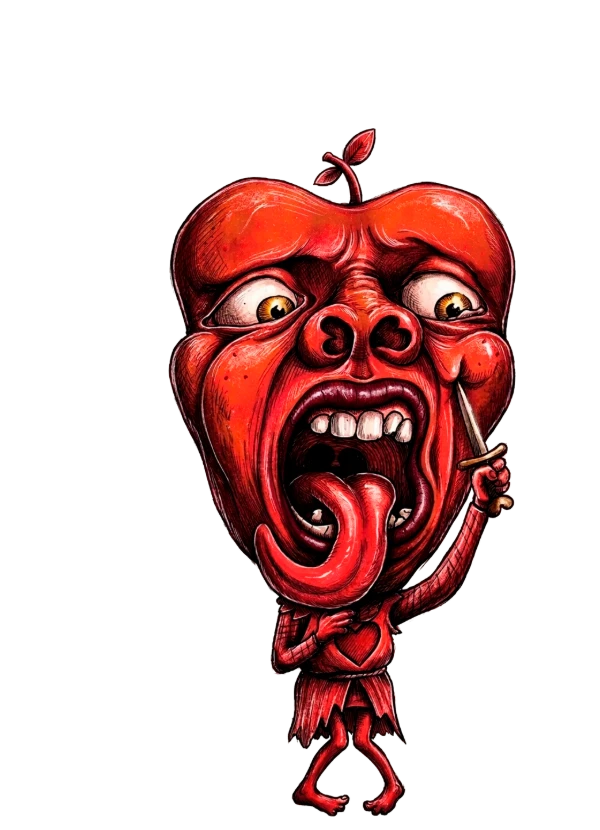
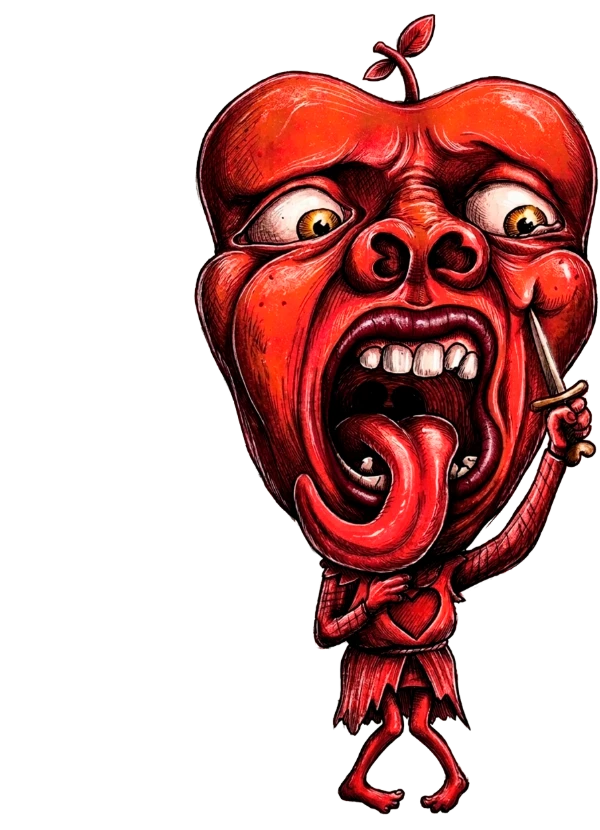
Figuras com indice so em cima; Valetes de Copas e Paus mais a direita; Rei de Espadas v3

diff --git a/js/cartas.js b/js/cartas.js
@@ -1,6 +1,6 @@
 /* Desenho das cartas: fundo creme liso (ou um fundo desenhado, se houver em FUNDOS), naipes desenhados (arte/naipes)
    nas posições clássicas do baralho. As figuras com arte própria (arte/cartas/senhores/<rank>-<naipe>.webp) usam o desenho
-   no lugar do placeholder, com a letra e o naipe nos cantos como as outras cartas (o de cima, à esquerda, um pouco maior).
+   no lugar do placeholder, com a letra e o naipe só no canto de cima, à esquerda (um pouco maior que o das outras cartas).
    Para usar a arte final de uma carta, registre a imagem em SS.ARTE (chave = rank-naipe), como as de baixo.
    A arte vem do arquivo de desenho do Leonardo (1792 × 2400): a tela toda vira a carta (600 × 830). Os desenhos mais estreitos
    que isso entram pela altura, sem esticar. */
@@ -34,7 +34,7 @@ window.SS = window.SS || {};
   // Borda preta na beirada da carta: a do desenho é fina demais (cerca de 1 px numa carta da mão) e sumia.
   const BORDA = '<rect x="2.2" y="2.2" width="195.6" height="275.6" rx="15" fill="none" stroke="#141414" stroke-width="4.5"/>';
   // Versão das imagens das cartas (trocar quando um arquivo mudar com o mesmo nome, para o navegador não usar o antigo).
-  const V_ARTE = '?v=15';
+  const V_ARTE = '?v=16';
 
   // Fundo da carta: o creme liso de sempre. Com fundos desenhados (arte/cartas/fundo-<letra>.webp, feitos no gabarito
   // arte/cartas/gabarito), ponha as letras deles aqui: cada carta pega sempre a mesma variação (rank + naipe).
@@ -75,7 +75,7 @@ window.SS = window.SS || {};
     return `<text x="15" y="41" font-size="${dez ? 19 : 24}"${dez ? ' letter-spacing="-3"' : ''} text-anchor="middle" fill="${COR[c.naipe]}" font-family="${FONTE}" font-weight="700">${c.rank}</text>${pip(c.naipe, 15, 56, 17, false)}`;
   }
 
-  // Índice das figuras com arte: o de cima, à esquerda, maior que o das outras cartas; o de baixo, do tamanho de sempre.
+  // Índice das figuras com arte: só o de cima, à esquerda, maior que o das outras cartas.
   // Um contorno creme na letra a separa do desenho que passa por baixo.
   function cantoArte(c, grande) {
     const [x, y, fs, py, pt] = grande ? [27, 50, 44, 78, 34] : [22, 42, 34, 64, 26];
@@ -113,7 +113,7 @@ window.SS = window.SS || {};
     else corpo = LAYOUT[c.rank].map(([x, y]) => pip(c.naipe, x, y, 34, y > 140)).join('');
     const svg = `<svg class="svg-carta" viewBox="0 0 200 280" xmlns="http://www.w3.org/2000/svg">
       ${fundo(chave)}
-      ${corpo}${arte || FUNDOS.length ? BORDA : ''}${arte ? `<g>${cantoArte(c, true)}</g><g transform="rotate(180 100 140)">${cantoArte(c, false)}</g>` : `<g>${canto(c, arte)}</g><g transform="rotate(180 100 140)">${canto(c, arte)}</g>`}</svg>`;
+      ${corpo}${arte || FUNDOS.length ? BORDA : ''}${arte ? `<g>${cantoArte(c, true)}</g>` : `<g>${canto(c, arte)}</g><g transform="rotate(180 100 140)">${canto(c, arte)}</g>`}</svg>`;
     if (!arte) cache[ck] = svg;
     return svg;
   }

diff --git a/index.html b/index.html
@@ -14,7 +14,7 @@
   <link rel="preload" href="arte/menu/papelao.webp" as="image">
   <link rel="preload" href="arte/menu/naipes.webp" as="image">
   <link rel="preload" href="arte/menu/logo.webp" as="image">
-  <link rel="stylesheet" href="estilo.css?v=202610301944">
+  <link rel="stylesheet" href="estilo.css?v=202610301951">
 </head>
 <body>
   <div id="palco">
@@ -67,20 +67,20 @@
   <div id="modal" hidden></div>
   <div id="dica" hidden></div>
 
-  <script defer src="js/idioma.js?v=202610301944"></script>
-  <script defer src="js/libs.js?v=202610301944"></script>
-  <script defer src="js/motor.js?v=202610301944"></script>
-  <script defer src="js/palhacos.js?v=202610301944"></script>
-  <script defer src="js/pesos.js?v=202610301944"></script>
-  <script defer src="js/bot.js?v=202610301944"></script>
-  <script defer src="js/cartas.js?v=202610301944"></script>
-  <script defer src="js/som.js?v=202610301944"></script>
-  <script defer src="js/dados3d.js?v=202610301944"></script>
-  <script defer src="js/decks.js?v=202610301944"></script>
-  <script defer src="js/regras.js?v=202610301944"></script>
-  <script defer src="js/rede.js?v=202610301944"></script>
-  <script defer src="js/decoracao.js?v=202610301944"></script>
-  <script defer src="js/tutorial.js?v=202610301944"></script>
-  <script defer src="js/interface.js?v=202610301944"></script>
+  <script defer src="js/idioma.js?v=202610301951"></script>
+  <script defer src="js/libs.js?v=202610301951"></script>
+  <script defer src="js/motor.js?v=202610301951"></script>
+  <script defer src="js/palhacos.js?v=202610301951"></script>
+  <script defer src="js/pesos.js?v=202610301951"></script>
+  <script defer src="js/bot.js?v=202610301951"></script>
+  <script defer src="js/cartas.js?v=202610301951"></script>
+  <script defer src="js/som.js?v=202610301951"></script>
+  <script defer src="js/dados3d.js?v=202610301951"></script>
+  <script defer src="js/decks.js?v=202610301951"></script>
+  <script defer src="js/regras.js?v=202610301951"></script>
+  <script defer src="js/rede.js?v=202610301951"></script>
+  <script defer src="js/decoracao.js?v=202610301951"></script>
+  <script defer src="js/tutorial.js?v=202610301951"></script>
+  <script defer src="js/interface.js?v=202610301951"></script>
 </body>
 </html>

diff --git a/js/interface.js b/js/interface.js
@@ -4816,7 +4816,7 @@ window.SS = window.SS || {};
       ['Deckbuilder: a carta com o mouse em cima afasta as vizinhas para aparecer inteira, e as Letras ficam na ordem Valete, Rei, Rainha também em cima', 'Deckbuilder: the hovered card pushes its neighbors aside so it shows in full, and the Letters go Jack, King, Queen up top too'],
       ['Meteoro: agora derruba também os Ases da mesa, e quem está em Berserk aguenta', 'Meteor: now also knocks down the Aces on the table, and Berserk Gentlemen hold on'],
       ['Deckbuilder: a coleção vai do Ás ao 10 e depois Valete, Rei e Rainha; pôr mais uma cópia não some mais com a carta lá em cima', 'Deckbuilder: the collection goes Ace to 10, then Jack, King and Queen; adding another copy no longer hides the card above'],
-      ['Todas as 12 figuras com arte própria (Valetes, Reis e Rainhas), com a letra e o naipe nos cantos; o de cima, à esquerda, um pouco maior', 'All 12 face cards have their own art (Jacks, Kings and Queens), with rank and suit in the corners; the top-left one a bit bigger'],
+      ['Todas as 12 figuras com arte própria (Valetes, Reis e Rainhas), com a letra e o naipe no canto de cima, à esquerda', 'All 12 face cards have their own art (Jacks, Kings and Queens), with rank and suit in the top-left corner'],
       ['As fichas EXTRA do Ás de Ouros viram um botão só, com um selinho dizendo quantas você tem', 'The Ace of Diamonds EXTRA tokens are now a single button, with a badge showing how many you have'],
       ['Ícone novo do dado no sorteio de quem começa, na área de testes e na mesa livre', 'New die icon in the who-goes-first roll, the test area and the free table'],
       ['Comprar com a ficha do Ás de Ouros não gasta mais ação (dá para usar até sem ações sobrando)', 'Drawing with the Ace of Diamonds token no longer spends an action (it works even with no actions left)'],
